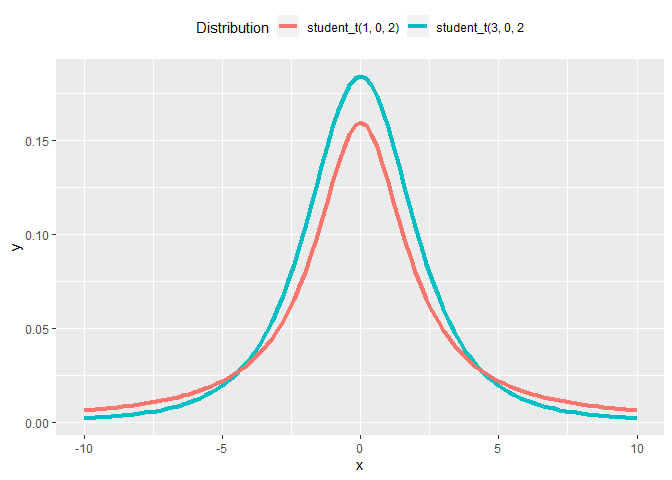
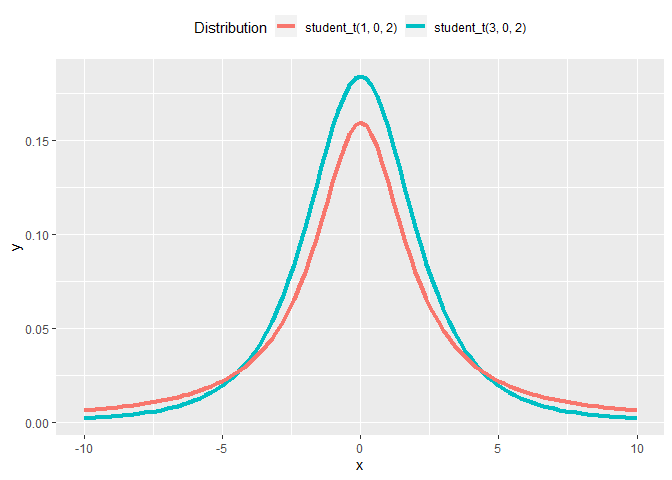
Fix typo and reduce width of figures

Changed region(s): [[0.625, 0.0312, 0.7812, 0.0938], [0.4375, 0.0312, 0.5938, 0.0938], [0.2812, 0.0312, 0.4062, 0.0938]]

diff --git a/README.md b/README.md
@@ -32,16 +32,16 @@ d_student_t(x = -10:10, nu = 3, mu = 0, sigma = 2)
 ```
 
 ``` r
-visualize("student_t(3, 0, 2", xlim = c(-10, 10))
+visualize("student_t(3, 0, 2)", xlim = c(-10, 10))
 ```
 
-<img src="man/figures/README-unnamed-chunk-3-1.png" width="100%" />
+<img src="man/figures/README-unnamed-chunk-3-1.png" width="80%" />
 
 ``` r
-visualize("student_t(3, 0, 2", "student_t(1, 0, 2)", xlim = c(-10, 10))
+visualize("student_t(3, 0, 2)", "student_t(1, 0, 2)", xlim = c(-10, 10))
 ```
 
-<img src="man/figures/README-unnamed-chunk-4-1.png" width="100%" />
+<img src="man/figures/README-unnamed-chunk-4-1.png" width="80%" />
 
 ## Contributor Code of Conduct
 
